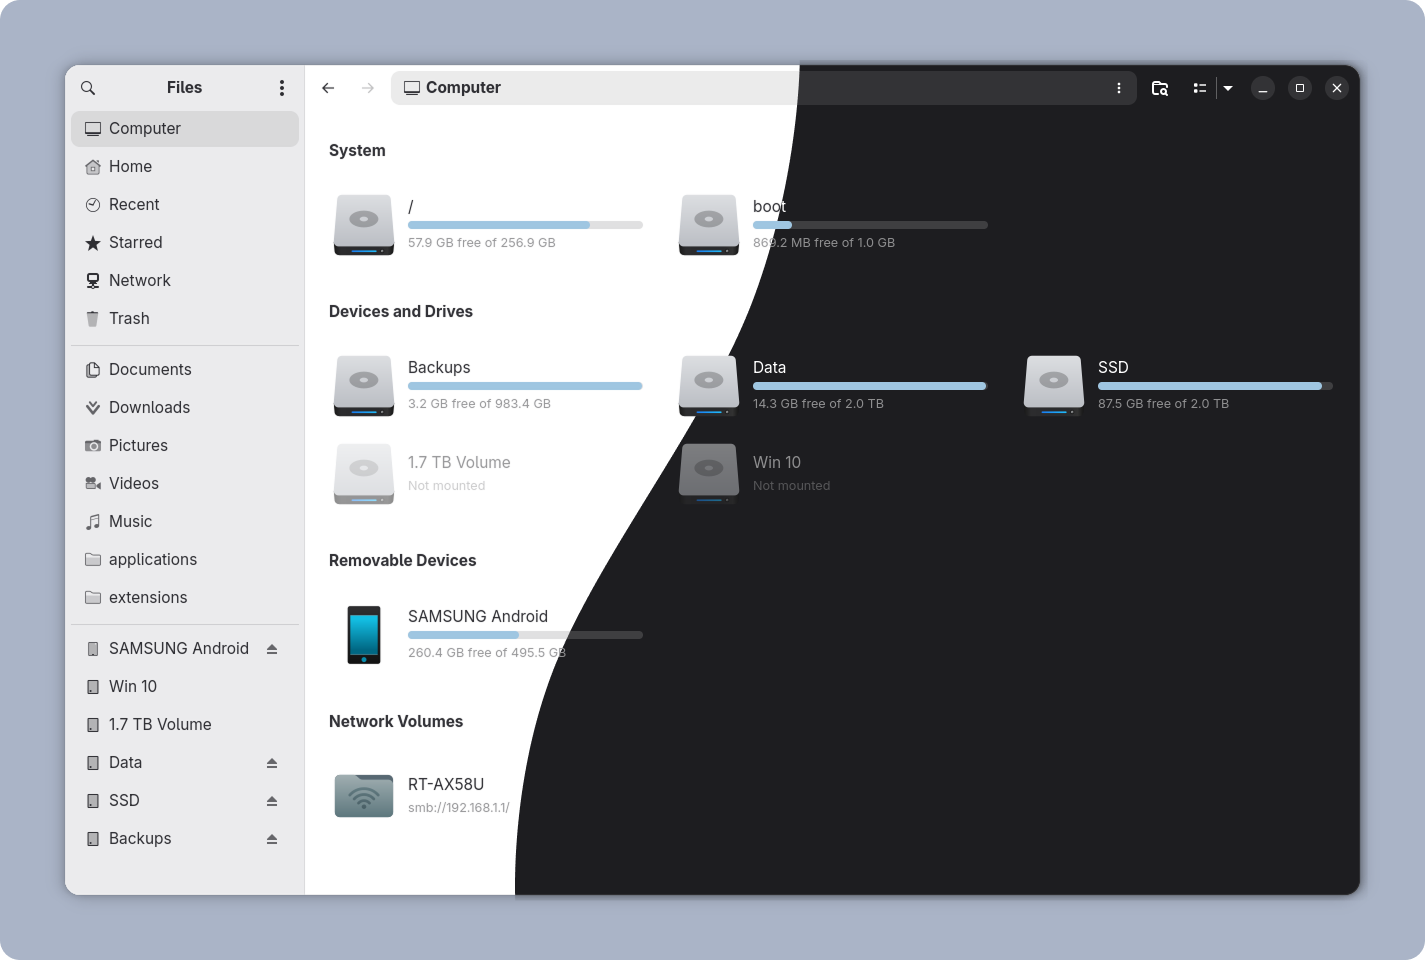
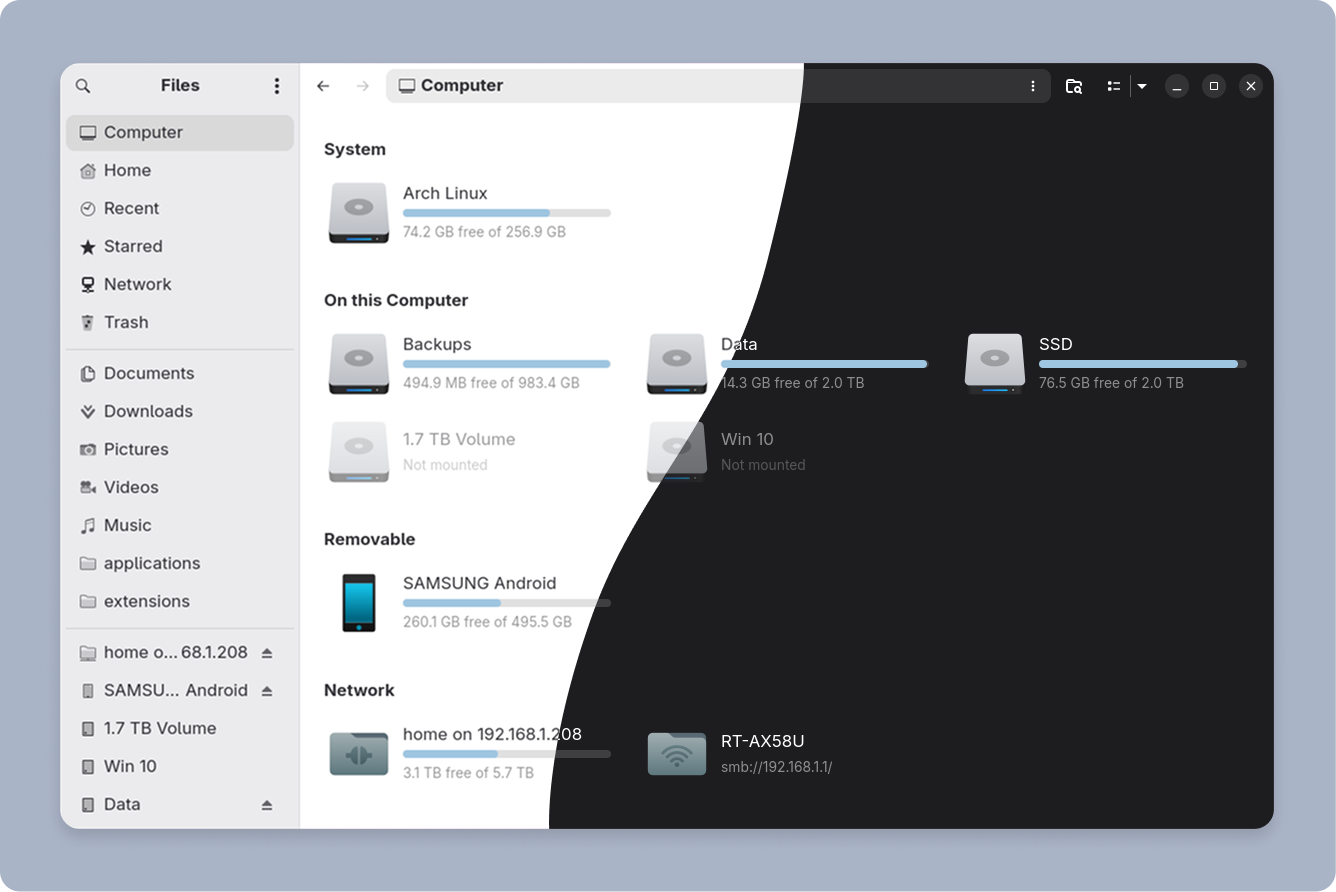
docs: update README, add groups-visibility screenshot, refresh assets
- Add groups visibility section and expand settings description
- Add groups-visibility.png screenshot
- Update screenshot, settings-page, and light-and-dark-mode images

Changed region(s): [[0.0307, 0.0605, 0.982, 0.9383], [0.0, 0.9989, 1.0, 1.0]]

diff --git a/README.md b/README.md
@@ -38,11 +38,36 @@ Computer sits at the top of the GNOME Files sidebar, click to open the panel and
 
 ### Settings page
 
-My Computer Settings let you open GNOME Files directly on the Computer view at startup, and customize the disk usage bar color to match your style.
+My Computer Settings let you:
+
+- Open GNOME Files directly on the Computer view at startup
+- Show or hide system partitions (root, boot, EFI, swap)
+- Control the visibility of each group - visible, hidden, or merged into On this Computer
+- Customize the disk usage bar color to match your style
 
 ![Settings Page](assets/images/settings-page.png)
 
 > Settings are stored via GSettings under `io.github.yannmasoch.nautilus-my-computer` and persist across sessions.
+
+## Groups visibility
+
+My Computer organises your storage into five groups:
+
+- **System** - root, boot, EFI, and swap partitions
+- **On this Computer** - your internal drives and partitions
+- **Removable** - USB drives, phones, cameras, and removable media
+- **Disc** - optical drives and mounted ISO images
+- **Network** - network shares and remote filesystems
+
+Each group (except **On this Computer**) has three visibility settings, configurable from the right-click menu on the Computer button:
+
+- **Visible** - shown as its own labelled section
+- **Hidden** - removed from the panel entirely
+- **Merged** - folded into **On this Computer**, keeping everything in one flat list
+
+Make the **My Computer** view your own, and organize it to show only what matters to you.
+
+![Groups Visibility](assets/images/groups-visibility.png)
 
 ## Style
 
@@ -76,6 +101,7 @@ All icons are native GNOME icons. My Computer works with any custom icon theme.
 - **Customizable bars:** choose between GNOME accent color, a custom color, or a custom gradient for the usage bars.
 - **Start on My Computer:** choose to open GNOME Files directly on the My Computer panel every time.
 - **Right-click context menu:** open, open in new tab, open in new window, mount, unmount, and eject volumes directly from a native-feel context menu.
+- **Groups visibility:** choose which storage groups are visible, hidden, or merged into one flat list - directly from the right-click menu on the Computer button.
   
 ## Tested on
 
